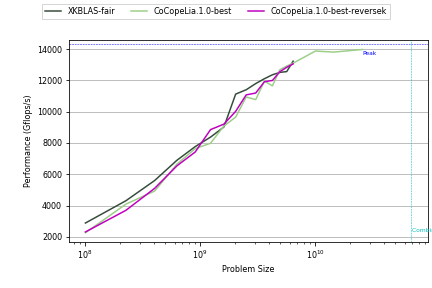
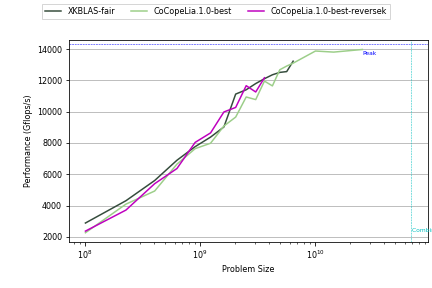
Corrected revK prev/next

diff --git a/Library_scheduler_experimental/src/Missions/Dgemm.cpp b/Library_scheduler_experimental/src/Missions/Dgemm.cpp
@@ -78,6 +78,9 @@ int current_ctr = 0;
 			for (int ki = 0; ki < KGridSz; ki++){
 	      current_ctr = mi*NGridSz*KGridSz + ni*KGridSz + ki;
 				kernels[current_ctr] = new Subkernel(3);
+				kernels[current_ctr]->iloc1 = mi;
+				kernels[current_ctr]->iloc2 = ni;
+				kernels[current_ctr]->iloc3 = ki;
 				kernels[current_ctr]->TileDimlist[0] = kernels[current_ctr]->TileDimlist[1]
 				= kernels[current_ctr]->TileDimlist[2] = 2;
 				kernels[current_ctr]->TileList[0] = A_asset->getTile(mi,ki);
@@ -97,16 +100,15 @@ int current_ctr = 0;
 				ptr_ker_translate->B = NULL;
 				ptr_ker_translate->C = NULL;
 				ptr_ker_translate->alpha = initial_gemm->alpha;
-				if (ki == 0){
-					kernels[current_ctr]->W_resource_reader = 1;
-					ptr_ker_translate->beta = initial_gemm->beta;
-				}
+				ptr_ker_translate->beta = initial_gemm->beta;
+				if (ki == 0) kernels[current_ctr]->WR_reader = 1;
 				else{
-					kernels[current_ctr]->W_resource_reader = 0;
+					kernels[current_ctr]->WR_reader = 0;
+					kernels[current_ctr]->WR_reducer = 1;
 					ptr_ker_translate->beta = 1.0;
 				}
-				if (ki == KGridSz - 1) kernels[current_ctr]->W_resource_writer = 1;
-				else kernels[current_ctr]->W_resource_writer = 0;
+				if (ki == KGridSz - 1) kernels[current_ctr]->WR_writer = 1;
+				else kernels[current_ctr]->WR_writer = 0;
 			}
 		}
 	}
@@ -166,10 +168,6 @@ void* CoCopeLiaDgemmAgentVoid(void* kernel_pthread_wrapped){
 	for (int keri = 0; keri < gemm_subkernel_data->SubkernelNumDev; keri++){
 		gemm_subkernel_data->SubkernelListDev[keri]->init_events();
 		CoCoGemmUpdateDevice(gemm_subkernel_data->SubkernelListDev[keri], dev_id);
-		if (!keri) gemm_subkernel_data->SubkernelListDev[keri]->prev = NULL;
-		else gemm_subkernel_data->SubkernelListDev[keri]->prev = gemm_subkernel_data->SubkernelListDev[keri-1];
-		if(keri==gemm_subkernel_data->SubkernelNumDev - 1) gemm_subkernel_data->SubkernelListDev[keri]->next = NULL;
-		else gemm_subkernel_data->SubkernelListDev[keri]->next = gemm_subkernel_data->SubkernelListDev[keri+1];
 	}
 
 #ifdef TEST
@@ -181,7 +179,7 @@ void* CoCopeLiaDgemmAgentVoid(void* kernel_pthread_wrapped){
 	/// Only works assuming the last subkernel writes back
 	Event* tmp_writeback;
 	if (KSplit == 1) for (int keri = gemm_subkernel_data->SubkernelNumDev -1 ; keri >= 0 ; keri--){
-		if (gemm_subkernel_data->SubkernelListDev[keri]->W_resource_writer)
+		if (gemm_subkernel_data->SubkernelListDev[keri]->WR_writer)
 			tmp_writeback = gemm_subkernel_data->SubkernelListDev[keri]->writeback_complete;
 		else{
 			// never init instead of delete
@@ -204,8 +202,8 @@ void* CoCopeLiaDgemmAgentVoid(void* kernel_pthread_wrapped){
 					lprintf(lvl, "CoCopeLiaDgemmAgentVoid(%d): Swaping ker(%d) with rev_ker(%d)\n",
 					dev_id, keri, rev_ker);
 #endif
-					if (gemm_subkernel_data->SubkernelListDev[keri]->W_resource_reader)
-							if (gemm_subkernel_data->SubkernelListDev[rev_ker]->W_resource_writer){
+					if (gemm_subkernel_data->SubkernelListDev[keri]->WR_reader)
+							if (gemm_subkernel_data->SubkernelListDev[rev_ker]->WR_writer){
 #ifdef DEBUG
 					lprintf(lvl, "CoCopeLiaDgemmAgentVoid(%d): ker(%d) reader->writer \n",
 					dev_id, keri);
@@ -216,14 +214,15 @@ void* CoCopeLiaDgemmAgentVoid(void* kernel_pthread_wrapped){
 									gemm_subkernel_data->SubkernelListDev[keri]->operation_params;
 								gemm_backend_in_p ptr_ker_translate_revker = (gemm_backend_in_p)
 									gemm_subkernel_data->SubkernelListDev[rev_ker]->operation_params;
-								gemm_subkernel_data->SubkernelListDev[keri]->W_resource_writer = 1;
-								gemm_subkernel_data->SubkernelListDev[keri]->W_resource_reader = 0;
+								gemm_subkernel_data->SubkernelListDev[keri]->WR_writer = 1;
+								gemm_subkernel_data->SubkernelListDev[keri]->WR_reader = 0;
 								ptr_ker_translate_revker->beta = ptr_ker_translate_keri->beta;
 								ptr_ker_translate_keri->beta = 1.0;
-								gemm_subkernel_data->SubkernelListDev[rev_ker]->W_resource_writer = 0;
-								gemm_subkernel_data->SubkernelListDev[rev_ker]->W_resource_reader = 1;
+								gemm_subkernel_data->SubkernelListDev[rev_ker]->WR_writer = 0;
+								gemm_subkernel_data->SubkernelListDev[rev_ker]->WR_reader = 1;
 							}
 							else error("CoCopeLiaDgemmAgentVoid(%d): tried to swap reader with no-writer\n", dev_id);
+
 					tmp = gemm_subkernel_data->SubkernelListDev[keri];
 					gemm_subkernel_data->SubkernelListDev[keri] =
 						gemm_subkernel_data->SubkernelListDev[rev_ker];
@@ -251,9 +250,16 @@ void* CoCopeLiaDgemmAgentVoid(void* kernel_pthread_wrapped){
 #endif
 
 	for (int keri = 0; keri < gemm_subkernel_data->SubkernelNumDev; keri++){
+		if (!keri) gemm_subkernel_data->SubkernelListDev[keri]->prev = NULL;
+		else gemm_subkernel_data->SubkernelListDev[keri]->prev =
+			gemm_subkernel_data->SubkernelListDev[keri-1];
+		if(keri==gemm_subkernel_data->SubkernelNumDev - 1)
+			gemm_subkernel_data->SubkernelListDev[keri]->next = NULL;
+		else gemm_subkernel_data->SubkernelListDev[keri]->next =
+			gemm_subkernel_data->SubkernelListDev[keri+1];
 		gemm_subkernel_data->SubkernelListDev[keri]->request_data();
 		gemm_subkernel_data->SubkernelListDev[keri]->run_operation();
-		if (gemm_subkernel_data->SubkernelListDev[keri]->W_resource_writer)
+		if (gemm_subkernel_data->SubkernelListDev[keri]->WR_writer)
 			gemm_subkernel_data->SubkernelListDev[keri]->writeback_data();
 	}
 	CoCoSyncCheckErr();
@@ -528,7 +534,7 @@ CoControl_p CoCopeLiaDgemm(char TransA,  char TransB, size_t M, size_t N, size_t
 		int remaining_devices = num_devices - d;
 		if (d>0) remaining_subkernels = remaining_subkernels - Subkernels_per_dev[d-1];
 		Subkernels_per_dev[d] = remaining_subkernels/remaining_devices;
-		while (Subkernel_list[Subkernel_num-remaining_subkernels + Subkernels_per_dev[d]-1]-> W_resource_writer!= 1)
+		while (Subkernel_list[Subkernel_num-remaining_subkernels + Subkernels_per_dev[d]-1]-> WR_writer!= 1)
 			Subkernels_per_dev[d]++;
 		if (Subkernels_per_dev[d] > remaining_subkernels) error("CoCoPeLiaDgemm: Split to devices went terribly wrong\n");
 	}*/
@@ -545,7 +551,7 @@ CoControl_p CoCopeLiaDgemm(char TransA,  char TransB, size_t M, size_t N, size_t
 		/// FIXME: Naive for 2 devices
 		MSplit = num_devices;
 		int dev_offset = ((MGridSz*NGridSz)/MSplit)*KGridSz;
-		if (dev_offset) while (Subkernel_list[dev_offset-1]->W_resource_writer!= 1) dev_offset++;
+		if (dev_offset) while (Subkernel_list[dev_offset-1]->WR_writer!= 1) dev_offset++;
 		else dev_offset = Subkernel_num;
 #ifdef DEBUG
 		lprintf(lvl, "Subkernel Split offset = %d\n", dev_offset);
